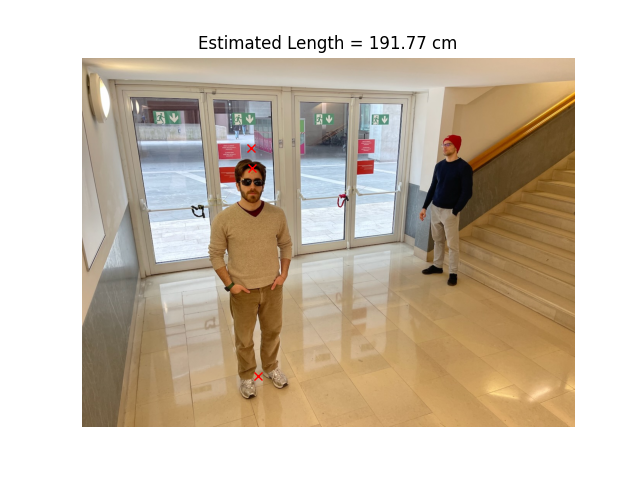
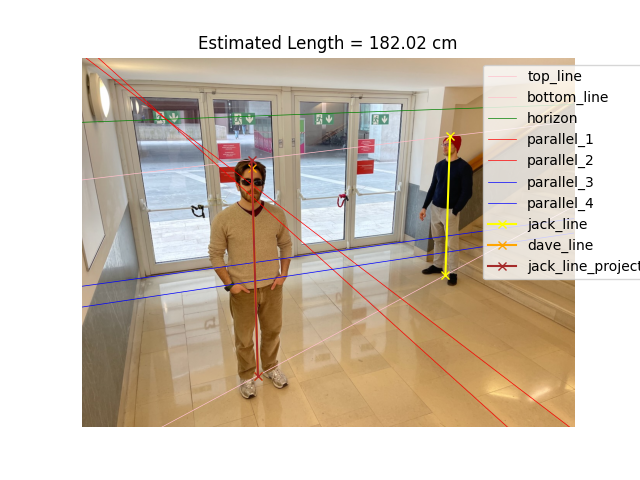
fixed all problems and added nice plotting (computed height is now 182cm)

diff --git a/single-view-metrology/main.py b/single-view-metrology/main.py
@@ -6,28 +6,38 @@ import PIL
 import sys
 
 # Parse command line
-if len(sys.argv) != 4:
-    print(f'SYNOPSIS: python run main.py path/to/image.jpeg path/to/annotations.txt <reference_length>')
+if len(sys.argv) != 5:
+    print(f'SYNOPSIS: python run main.py path/to/image.jpeg path/to/annotations.txt path/to/output.png <reference_length>')
     sys.exit()
 else:
     IMAGE_PATH = sys.argv[1]
     ANNOTATIONS_PATH = sys.argv[2]
-    REFERENCE_LENGTH = float(sys.argv[3])
+    SAVE_PATH = sys.argv[3]
+    REFERENCE_LENGTH = float(sys.argv[4])
+    
 
 # Read annotations
 img = PIL.Image.open(IMAGE_PATH)
+img = np.array(img)
 
 with open(ANNOTATIONS_PATH, 'r') as f:
     annotations = f.read()
     
+    # remove comments
     annotations = re.sub(r"#.*", '', annotations)
+
+    # remove whitespace
+    annotations = re.sub(r" ", '', annotations)
+
+    # Retrieve coordinates
     annotations = [xy.split(',') for xy in annotations.splitlines() if re.match(r"^\d+,\d+$", xy)]
     xs = np.array([int(xy[0]) for xy in annotations], dtype = np.float32)
     ys = np.array([int(xy[1]) for xy in annotations], dtype = np.float32)
-    labels = np.arange(0, len(xs))
 
 def cross(p1, p2):
-    
+    """
+    Compute homogeneous cross prouduct between 2D points by appending the 1.0 coordinate.
+    """
     ans = np.cross(
         np.array([xs[p1], ys[p1], 1.0]),
         np.array([xs[p2], ys[p2], 1.0])
@@ -35,78 +45,133 @@ def cross(p1, p2):
 
     return ans
 
-dave_top = np.array([xs[8], ys[8], 1.0])
-dave_bottom = np.array([xs[9], ys[9], 1.0])
+# to store the name and homogeneous coordinates of points & lines        
+obj = {}        # str:np.ndarray
 
-left_vp = np.cross(
-    cross(0, 1),
-    cross(2, 3)
+obj["dave_top"] = np.array([xs[8], ys[8], 1.0])
+obj["dave_bottom"] = np.array([xs[9], ys[9], 1.0])
+obj["jack_top"] = np.array([xs[10], ys[10], 1.0])
+obj["jack_bottom"] = np.array([xs[11], ys[11], 1.0])
+
+# Retrieve parallel lines
+n = 1
+for i in [0, 2, 3, 6]:
+    obj[f"parallel_{n}"] = cross(i, i+1)
+    n += 1
+
+# Retrieve reference and measure lines
+obj["dave_line"] = np.cross(
+    obj["dave_top"],
+    obj["dave_bottom"]
+)
+obj["jack_line"] = np.cross(
+    obj["jack_top"],
+    obj["jack_bottom"]
 )
 
-right_vp = np.cross(
-    cross(4, 5),
-    cross(6, 7)
+# Find Vanishing Points & Horizon
+obj["left_vp"] = np.cross(
+    obj["parallel_1"],
+    obj["parallel_2"]
 )
 
-horizon = np.cross(
-    left_vp,
-    right_vp
+obj["right_vp"] = np.cross(
+    obj["parallel_3"],
+    obj["parallel_4"]
 )
 
-bottom_line = cross(
-    9,      # Dave's bottom point
-    11      # Jack's bottom point
+obj["horizon"] = np.cross(
+    obj["left_vp"],
+    obj["right_vp"]
 )
 
-p_inf = np.cross(
-    bottom_line, 
-    horizon
+# Intersect with line through the feet
+obj["bottom_line"] = np.cross(
+    obj["dave_bottom"],     
+    obj["jack_bottom"]      
 )
 
-top_line = np.cross(
-    p_inf,
-    np.array([xs[10], ys[10], 1.0])     # jack's top point
+obj["p_inf"] = np.cross(
+    obj["bottom_line"], 
+    obj["horizon"]
 )
 
-dave_line = np.cross(
-    dave_top,
-    dave_bottom
+# Project jack's height onto dave's
+obj["top_line"] = np.cross(
+    obj["p_inf"],
+    obj["jack_top"] 
 )
 
-jack_top_projected = np.cross(
-    top_line, 
-    dave_line
+obj["jack_top_projected"] = np.cross(
+    obj["top_line"], 
+    obj["dave_line"]
 )
-jack_top_projected = jack_top_projected / jack_top_projected[2]
+obj["jack_top_projected"] = obj["jack_top_projected"] / obj["jack_top_projected"][2]
 
+# Compute their ratio and estimate original height
 dave_length = np.linalg.norm(
-    dave_top - dave_bottom
+    obj["dave_top"] - obj["dave_bottom"]
 )
 
 jack_length_projected = np.linalg.norm(
-    jack_top_projected - dave_bottom
+    obj["jack_top_projected"] - obj["dave_bottom"]
 )
 
 # jack : dave = jack_img : dave_img
 ans = jack_length_projected * REFERENCE_LENGTH / dave_length
 
+# ----------- Plot
 plt.imshow(img)
-plt.plot(
-    jack_top_projected[0],
-    jack_top_projected[1],
-    c = 'r',
-    marker = 'x')
-plt.plot(
-    dave_bottom[0],
-    dave_bottom[1],
-    c = 'r',
-    marker = 'x')
-plt.plot(
-    dave_top[0],
-    dave_top[1],
-    c = 'r',
-    marker = 'x')
+
+# Plot lines
+for i,c in {
+    "top_line":"pink",
+    "bottom_line":"pink",
+    "horizon":"green",
+    "parallel_1":"red",
+    "parallel_2":"red",
+    "parallel_3":"blue",
+    "parallel_4":"blue",
+}.items():
+    
+    xs = np.array([0, img.shape[1]])
+    a = obj[i]
+    slope = -a[0] / a[1]
+    intercept = - a[2] / a[1]
+    
+    ys = slope * xs + intercept
+    
+    plt.plot(
+        xs, 
+        ys,
+        marker = '',
+        # linestyle = ':',
+        linewidth = 0.5,
+        label = i,
+        c = c
+    )
+
+# Plot points:
+for i, c in {
+    ("jack_top", "jack_bottom", "jack_line"):"yellow",
+    ("dave_top", "dave_bottom", "dave_line"):"orange",
+    ("jack_top_projected", "dave_bottom", "jack_line_projected"):"brown",
+}.items():
+    plt.plot(
+        (obj[i[0]][0],obj[i[1]][0]),
+        (obj[i[0]][1],obj[i[1]][1]),
+        c = c,
+        marker = 'x',
+        label = i[2]
+    )
+    
 plt.title(f"Estimated Length = {ans:.2f} cm")
 plt.axis("off")
-plt.savefig('plot.png')
+plt.legend(loc='upper center', bbox_to_anchor=(1,1), ncol=1)
+plt.xlim([0, img.shape[1]])
+plt.ylim([img.shape[0], 0])
+
+# Save
+plt.savefig(SAVE_PATH)
+print(f'Result saved to {SAVE_PATH}')
 
